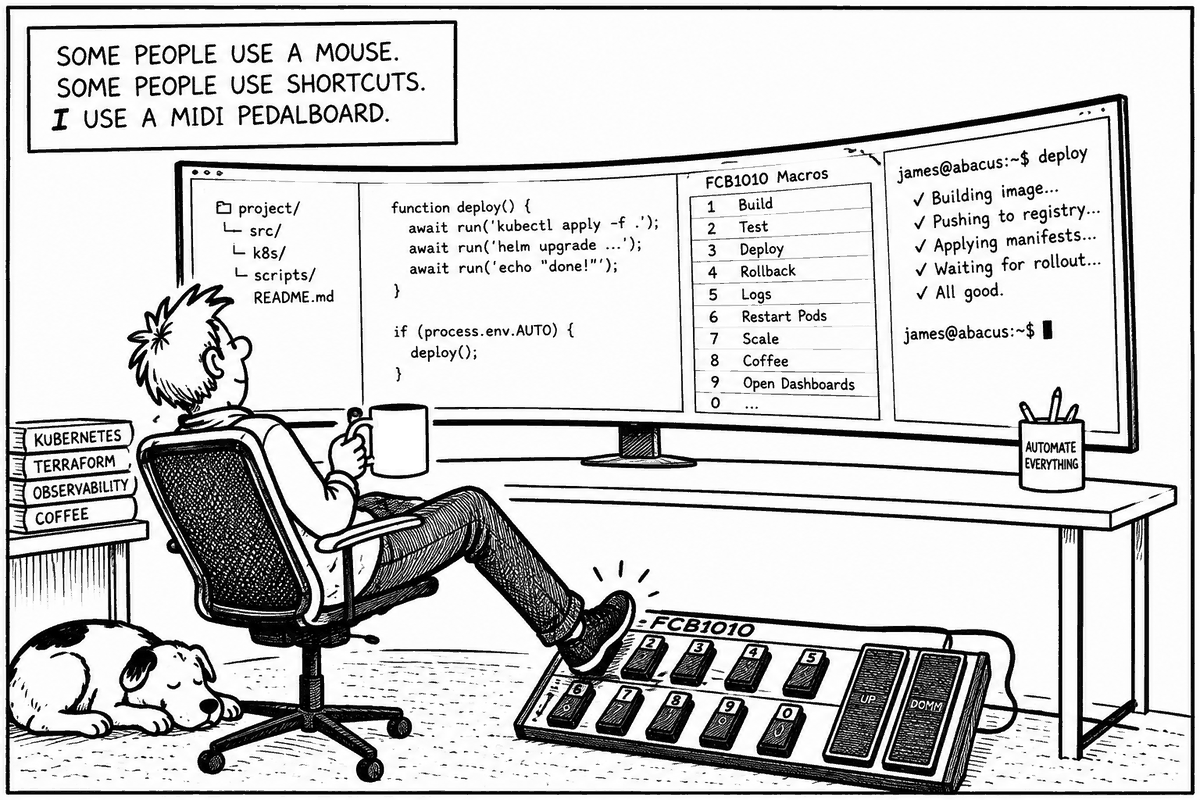
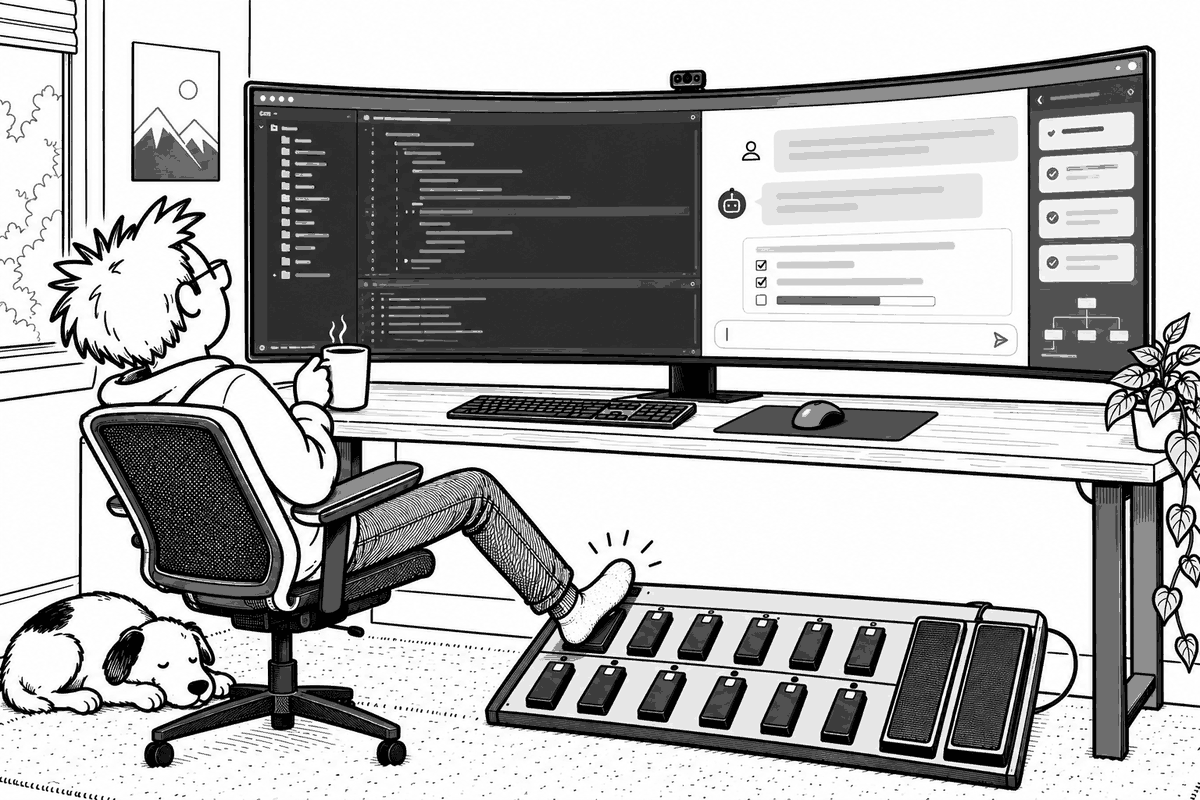
Replace README header illustration
Claude-Session: https://claude.ai/code/session_014D8wRiR7Y4WAeRzS9HLNKo

diff --git a/README.md b/README.md
@@ -1,6 +1,6 @@
 # fcbnerd
 
-![Cartoon: "Some people use a mouse. Some people use shortcuts. I use a MIDI pedalboard." A developer leans back with a coffee, stomping an FCB1010 to run a deploy.](docs/fcbnerd.png)
+![Cartoon: a developer leans back from a wide monitor with a coffee, stomping a footswitch on a MIDI pedalboard while a dog sleeps nearby.](docs/fcbnerd.png)
 
 Use a MIDI foot controller as an extra keyboard for your Mac. `fcbnerd`
 connects to your MIDI sources and either runs a shell command when a
